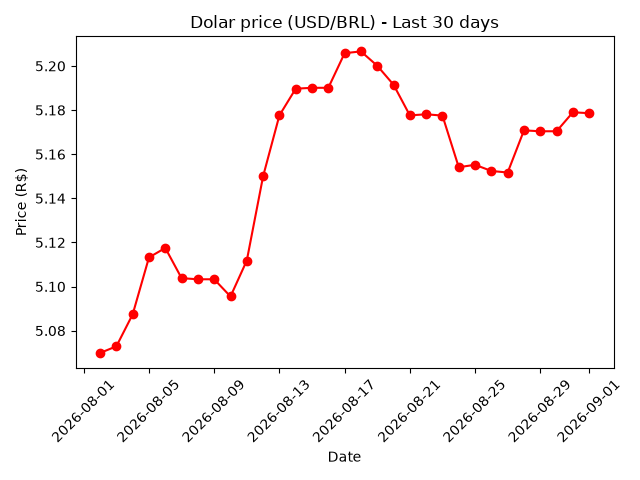
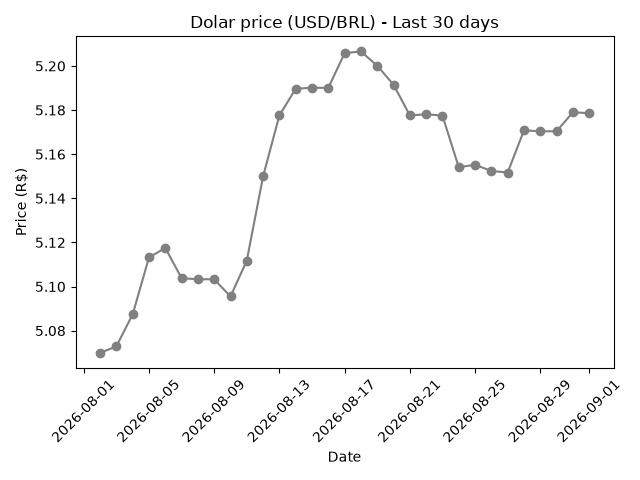
Send to email
Now the application send the graphic created to my email.

diff --git a/main.py b/main.py
@@ -1,6 +1,10 @@
 import requests
 import matplotlib.pyplot as plt
 import pandas as pd
+import smtplib
+from email.mime.text import MIMEText
+from email.mime.image import MIMEImage
+from email.mime.multipart import MIMEMultipart
 from datetime import date, timedelta
 
 today = date.today()
@@ -20,7 +24,7 @@ data = awnser.json()
 df = pd.DataFrame(data)  
 df["date"] = pd.to_datetime(df["date"])
 
-plt.plot(df["date"], df["rate"], marker="o", color="red")
+plt.plot(df["date"], df["rate"], marker="o", color="gray")
 plt.title("Dolar price (USD/BRL) - Last 30 days")
 plt.xlabel("Date")
 plt.ylabel("Price (R$)")
@@ -28,3 +32,20 @@ plt.xticks(rotation=45)
 plt.tight_layout()
 plt.savefig("Dolar-price.png")
 plt.show()
+
+msg = MIMEMultipart()
+msg["Subject"] = "Diary report - Price USD/BRL"
+msg["From"] = "ltdias07@gmail.com"
+msg["To"] = "tamarindodiasl@gmail.com"
+
+msg.attach(MIMEText("Here is attached the graphic of the price of dolar in the last 30 days.", "plain"))
+
+with open("Dolar-price.png", "rb") as img_file:
+    image = MIMEImage(img_file.read())
+    image.add_header("Content-Disposition", "attachment", filename="dolar-price.png")
+    msg.attach(image)
+
+with smtplib.SMTP("smtp.gmail.com", 587) as server:
+    server.starttls()
+    server.login("ltdias07@gmail.com", "xrma fdgn ioec inpz")
+    server.send_message(msg)
